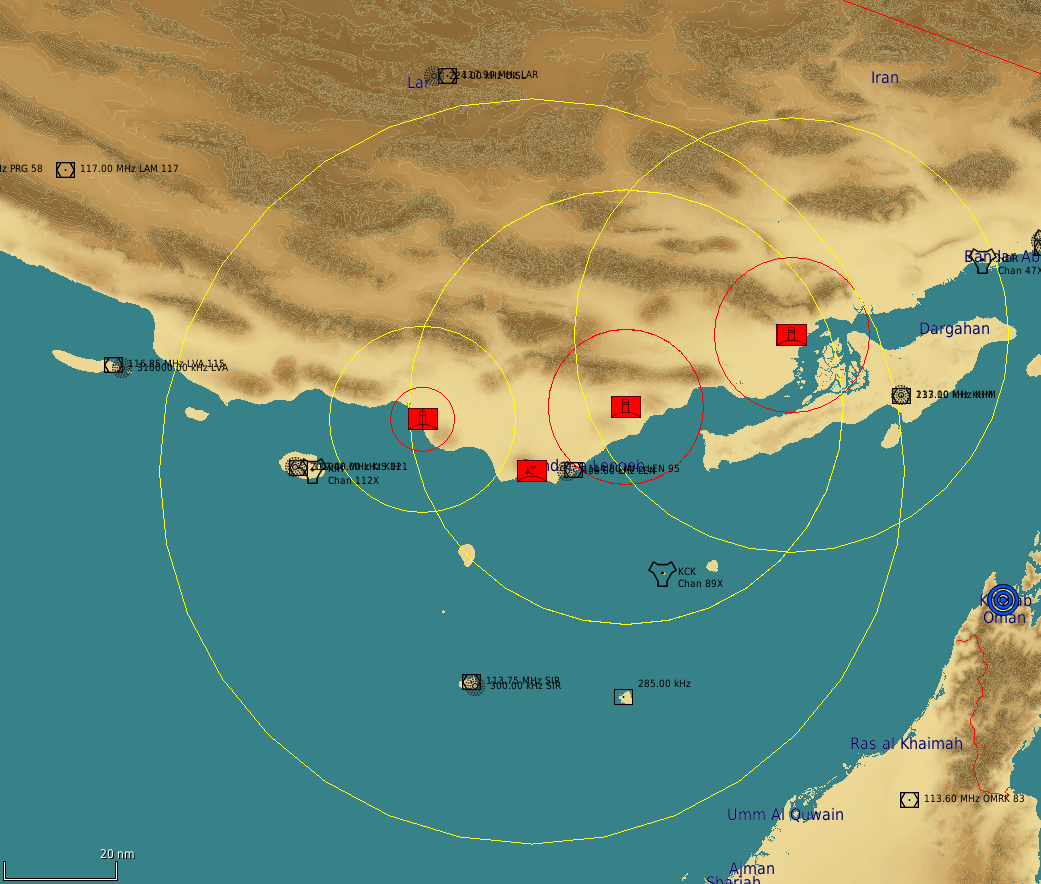
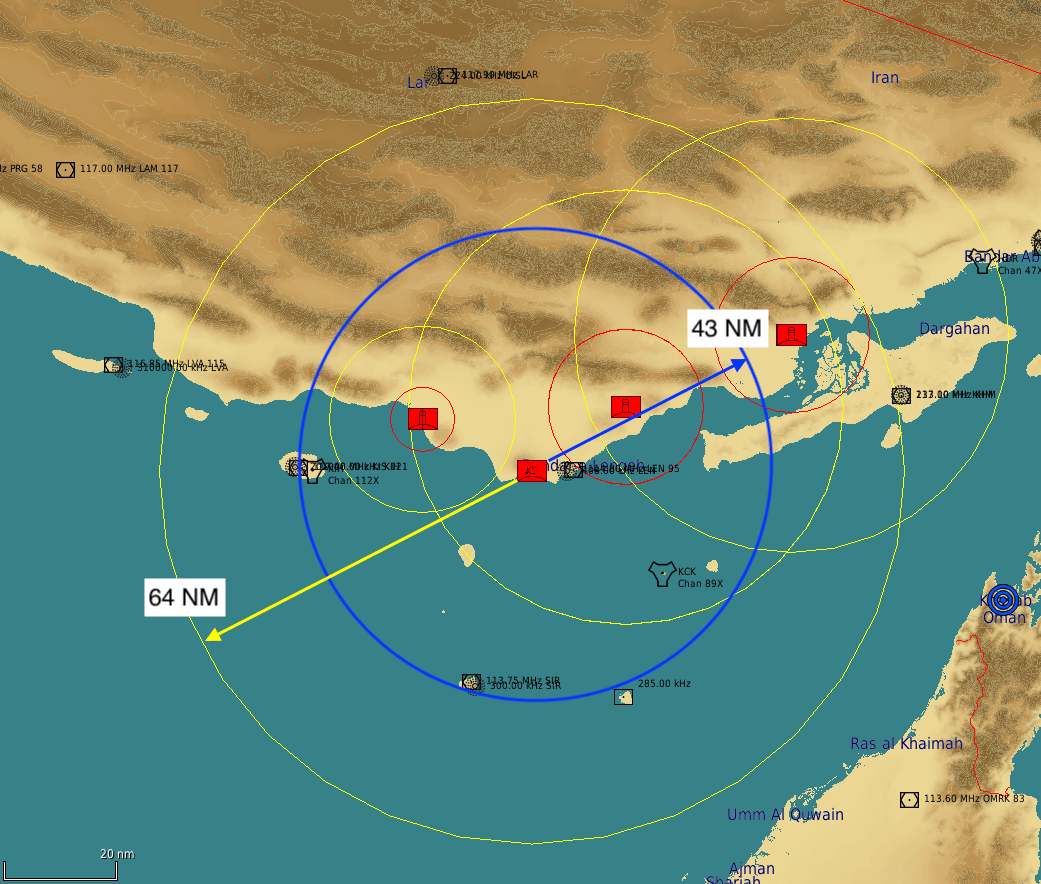
updated documentation radar range

diff --git a/README.md b/README.md
@@ -580,6 +580,12 @@ If a SAM site or EW radar detects an inbound HARM it just turns off its radar as
 Yes, when placing multi unit SAM sites (e.g. SA-3 Patriot..) make sure the first unit you place is the search radar. If you add any other element as the first unit, Skynet will not be able to read radar data.
 The result will be that the SAM site won't go live. This bug was observed in DCS 2.5.5. The SAM site will work fine when used as a standalone unit outside of Skynet.
 
+## How do I know if a SAM site is in range of an EW site or a SAM site in EW mode?
+In general you can look at the range circles in the mission editor. However these ranges are greater than the actual in game detection distance of an EW radar or SAM site.
+The following screen shot shows the range of the 1L13 EWR. The mission editor shows a range of 64 NM (nautical miles) where as the in game range is 42 NM.
+![1L13 EWR range differences](https://github.com/walder/Skynet-IADS/raw/master/images/ew-detection-distance-example.png)  
+
+
 # Thanks
 Special thaks to Spearzone and Coranthia for researching public available information on IADS networks and getting me up to speed on how such a system works.
 I based the SAM site setup on [Grimes SAM DB](https://forums.eagle.ru/showthread.php?t=118175) from his IADS script, however I removed range data since Skynet loads that from DCS.
